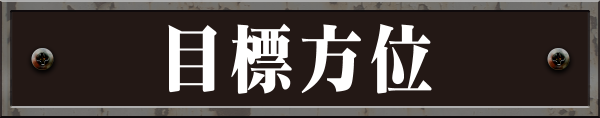
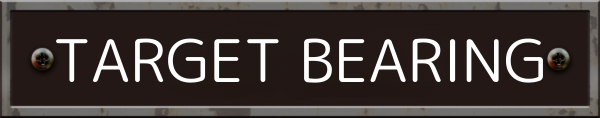
潜望鏡画面の英語版画像を追加

Changed region(s): [[0.09, 0.2034, 0.93, 0.8136]]

diff --git a/www/index.html b/www/index.html
@@ -169,33 +169,33 @@
                 <div id="bearingContainer" class="col-4 inputPartsContainer">
                     <img id="bearingBack" class="inputPanel" src="resources/img/bearingBack.png">
                     <img id="bearingAllow" class="inputFront" src="resources/img/bearingAllow.png">
-                    <img class="inputPlate" src="resources/img/bearingPlate.png">
+                    <img class="inputPlate" translate src="resources/img/bearingPlate.png">
                 </div>
                 <div id="speedContainer" class="col-4 inputPartsContainer">
                     <img id="speedBack" class="inputPanel" src="resources/img/speedBack.png">
                     <img id="speedAllow" class="inputFront" src="resources/img/speedAllow.png">
-                    <img class="inputPlate" src="resources/img/speedPlate.png">
+                    <img class="inputPlate" translate src="resources/img/speedPlate.png">
                 </div>
                 <div id="gyroContainer" class="col-4 inputPartsContainer">
                     <img id="gyroBack" class="inputPanel" src="resources/img/gyroBack.png">
                     <img id="gyroAllow" class="inputFront" src="resources/img/gyroAllow.png">
-                    <img class="inputPlate" src="resources/img/gyroPlate.png">
+                    <img class="inputPlate" translate src="resources/img/gyroPlate.png">
                 </div>
             </div>
             <div class="row">
                 <div id="rangeContainer" class="col-4 inputPartsContainer">
                     <img id="rangeBack" class="inputPanel" src="resources/img/rangeBack.png">
                     <img id="rangeAllow" class="inputFront" src="resources/img/rangeAllow.png">
-                    <img class="inputPlate" src="resources/img/rangePlate.png">
+                    <img class="inputPlate" translate src="resources/img/rangePlate.png">
                 </div>
                 <div id="aOnBowContainer" class="col-4 inputPartsContainer">
                     <img id="aOnBowBack" class="inputPanel" src="resources/img/aOnBowBack.png">
                     <img id="aOnBowAllow" class="inputFront" src="resources/img/aOnBowAllow.png">
-                    <img class="inputPlate" src="resources/img/aOnBowPlate.png">
+                    <img class="inputPlate" translate src="resources/img/aOnBowPlate.png">
                 </div>
                 <div id="fireContainer" class="col-4 inputPartsContainer">
                     <img id="fireButton" class="inputPanel fireButton" src="resources/img/fireOff.png">
-                    <img class="inputPlate" class="fireButton" src="resources/img/firePlate.png">
+                    <img class="inputPlate" translate class="fireButton" src="resources/img/firePlate.png">
                 </div>
             </div>
             <div class="row">
